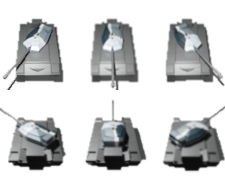
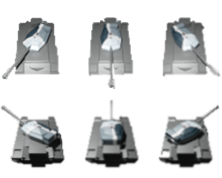
//增加點選角色時，變換圖片

diff --git a/src/scene/GameScene.java b/src/scene/GameScene.java
@@ -25,6 +25,7 @@ import java.util.ArrayList;
 //每回合3波，完後 delay5秒換場
 //imageController有問題
 //判斷打輸的條件是全滅，但假如沒$$買軍隊時，直接進場，就會直接走失敗畫面然後+$$-->變成洗錢的Bug
+//做單位被點到變色的paint
 public class GameScene extends Scene {
     //場地左上角X Y(380,180)；場地右下角xy (1060,700) 。
     private BufferedImage image; //背景圖
@@ -65,7 +66,7 @@ public class GameScene extends Scene {
                         System.out.println("產生" + "Tank1");
                         break;
                     case TANK2:
-                        alliance.add(new Tank2(Global.BOUNDARY_X1 + j * 100, Global.BOUNDARY_Y2-200, false));
+                        alliance.add(new Tank2(Global.BOUNDARY_X1 + j * 100, Global.BOUNDARY_Y2-100, false));
                         System.out.println("產生" + "Tank2");
                         break;
                 }
@@ -102,8 +103,11 @@ public class GameScene extends Scene {
                                     for (int i = 0; i < alliance.size(); i++) { //控制權現在在誰身上
                                         if (alliance.get(i).isTouch(e.getX(), e.getY())) { //假如被點到了
                                             allianceControl = alliance.get(i);  //被點到的人會變被控制者
+                                            allianceControl.setControl(true); //設成被控制中
                                             System.out.println("第"+i+"台被點到"+"種類是"+allianceControl.getType());  //很不好點
-                                        }
+                                        }else{
+                                               alliance.get(i).setControl(false);
+                                            }
                                     }
                                 }
                                 System.out.println("左鍵");
@@ -187,6 +191,7 @@ public class GameScene extends Scene {
             if (delayRound.count()) { //開場20秒後
                 flag.setFlagUsable(false); //旗子不能用
                 enemysMove = true; //10秒後敵軍可以移動
+                allianceControl.setControl(false);
             }
             if (enemysMove) { //敵軍可以移動時
                 //敵軍update

diff --git a/src/gameobj/Tank1.java b/src/gameobj/Tank1.java
@@ -9,11 +9,10 @@ import java.awt.*;
 public class Tank1 extends Actor{
 
 
-
-
     public Tank1(float x, float y,boolean isenemy){
         super(x,y,75,90);
         this.image= ImageController.getInstance().tryGet("/tank1.png");
+        this.image2=ImageController.getInstance().tryGet("/tank1B.png");
         hpLimit=300;//血量上限
         hp=300; //目前血量
         atk=250; //攻擊力
@@ -32,13 +31,21 @@ public class Tank1 extends Actor{
 
     @Override
     public void paint(Graphics g) {
+        if(isInControl){ //被控制時要畫藍色的圖
+            g.drawImage(image2,(int)this.painter().left(),(int)this.painter().top(),(int)this.painter().right(),(int)this.painter().bottom(),
+                    this.cannonDirection.getValue()%3*75,cannonDirection.getValue()/3*90,
+                    this.cannonDirection.getValue()%3*75+75,cannonDirection.getValue()/3*90+90,null);
+        }
+    else{
         g.drawImage(image,(int)this.painter().left(),(int)this.painter().top(),(int)this.painter().right(),(int)this.painter().bottom(),
                 this.cannonDirection.getValue()%3*75,cannonDirection.getValue()/3*90,
                 this.cannonDirection.getValue()%3*75+75,cannonDirection.getValue()/3*90+90,null);
+        }
 
         for(int i=0;i<this.bullets.size();i++){
             this.bullets.get(i).paint(g);
         }
     }
+
 
 }

diff --git a/src/gameobj/Actor.java b/src/gameobj/Actor.java
@@ -11,6 +11,7 @@ import java.util.ArrayList;
 public abstract class Actor extends GameObject {
     //設基本屬性的g s 並且offset
     protected BufferedImage image;
+    protected BufferedImage image2;// 變色圖片
     protected double hpLimit;
     protected double hp;
     protected double atk;
